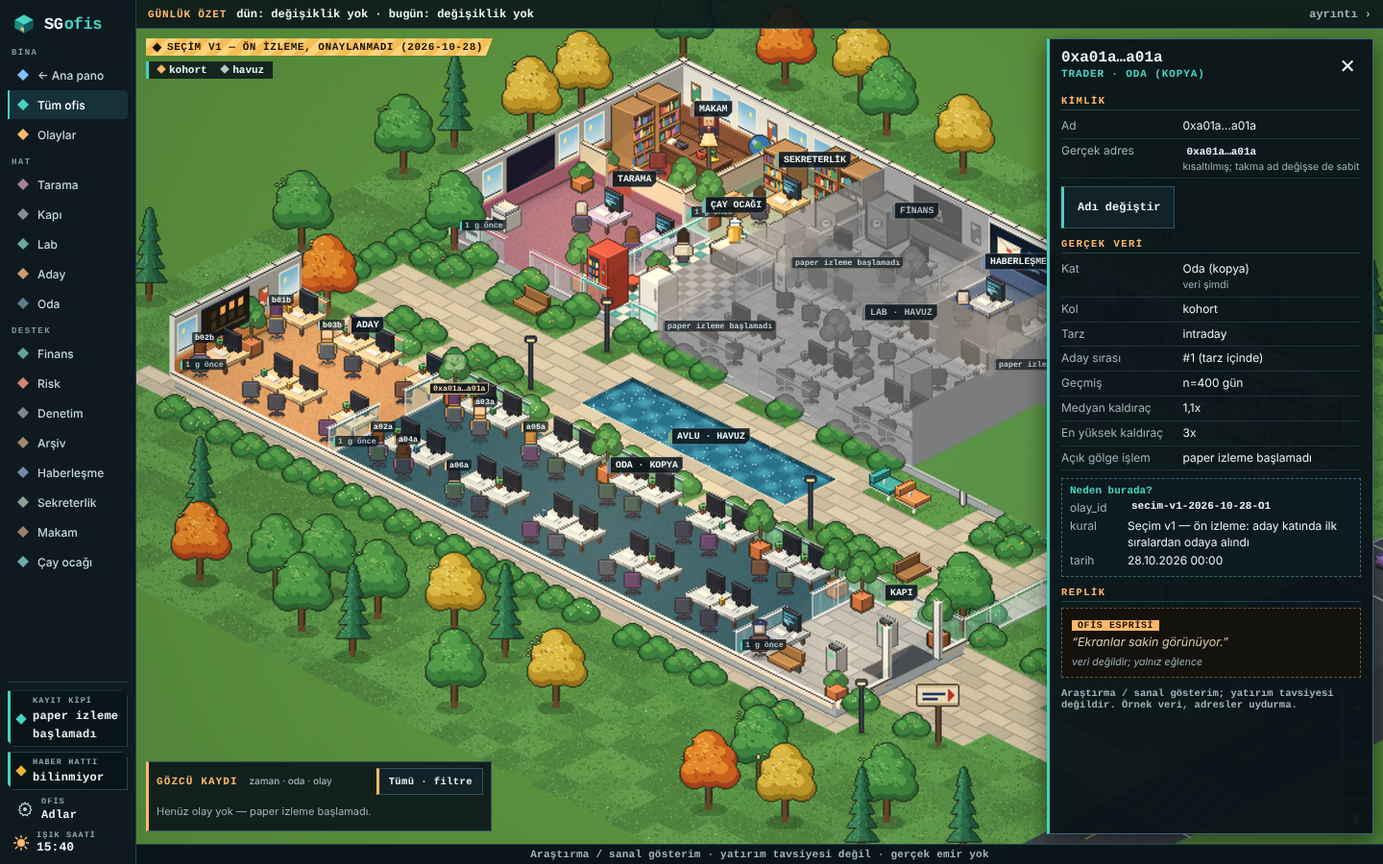
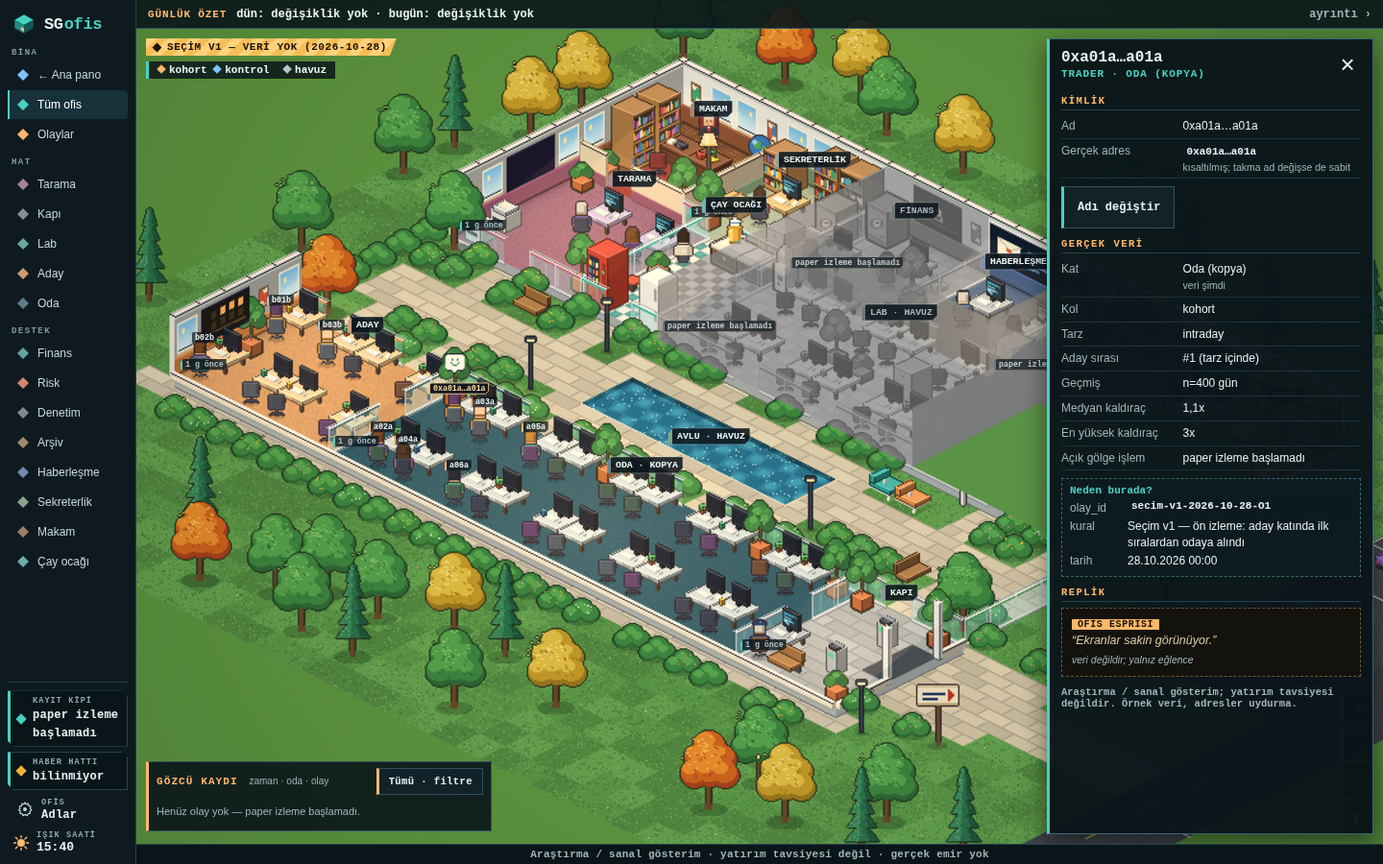
feat: canlı gölge ofis verisi (#33)
* feat: ofisi canlı gölge izlemeye bağla

* chore: ofis sürüm damgasını güncelle

diff --git a/ofis/gercek.js b/ofis/gercek.js
@@ -7,9 +7,10 @@
   else { root.OFIS = root.OFIS || {}; root.OFIS.Gercek = api; }
 })(typeof window !== 'undefined' ? window : globalThis, function () {
   'use strict';
-  const REPO = 'sselimgenc-oss/sg-arge', DAL = 'copytrade-kapi';
+  const REPO = 'sselimgenc-oss/sg-arge', DAL = 'copytrade-kapi', IZLEME_DALI = 'copytrade-izleme';
   const AGAC = 'https://api.github.com/repos/' + REPO + '/git/trees/' + DAL + '?recursive=1';   // kimliksiz API: tek çağrı
   const HAM = 'https://raw.githubusercontent.com/' + REPO + '/' + DAL + '/';
+  const IZLEME_HAM = 'https://raw.githubusercontent.com/' + REPO + '/' + IZLEME_DALI + '/izleme/durum.json';
   const ESIK_DK = 7 * 1440;                                   // seçim ve kapı haftalık/günlük üretilir: bir haftadan eskiyse VERİ ESKİ
   const GRI = 'paper izleme başlamadı';
   const TARIH = /^\d{4}-\d{2}-\d{2}/;
@@ -54,11 +55,27 @@
     const kapsam = durum && sayi(durum.kapsam) != null ? '%' + Math.round(durum.kapsam * 100) : null;
     const vk = (anahtar, ad, durumu, deger, zaman) => ({ anahtar: anahtar, ad: ad, durum: durumu, deger: deger, zaman: zaman, esik_dk: ESIK_DK });
     const kapiTamam = durum && durum.durum === 'tamam';
+    const live = opt.izleme || null, etiket = surum + '@' + (opt.kapiTarihi || tarih);
+    const eslesmis = live && Array.isArray(live.traderlar) ? live.traderlar.filter(t => t.secim === etiket) : [];
+    const onaylandi = eslesmis.length > 0;
+    const canli = Object.fromEntries(eslesmis.map(t => [String(t.adres).toLowerCase(), t]));
+    const liveRows = onaylandi ? girdi.filter(e => canli[e.adres]).map((e, i) => {
+      const t = canli[e.adres], ks = t.kollar || [t.kol];
+      const kat = ks.indexOf('oda') >= 0 || ks.indexOf('referans_oda') >= 0 ? 'oda' : (ks.indexOf('kontrol') >= 0 || ks.indexOf('referans_kontrol') >= 0 ? 'kontrol' : ks.indexOf('taban') >= 0 ? 'lab' : 'aday');
+      return Object.assign(olustur(e, kat, t.id.slice(0, 1), i), { id: t.id, adres: kisa(t.adres), takma_ad: t.takma_ad, kat: kat, kol: t.kol, saglik: t.saglik, sanal_kopya: t.sanal_kopya || null, veri_zamani: t.veri_zamani || live.uretildi });
+    }) : traderlar;
+    const copies = eslesmis.map(t => t.sanal_kopya).filter(Boolean);
+    const total = key => copies.reduce((x, c) => x + (sayi(c[key]) || 0), 0);
+    const kol = name => eslesmis.filter(t => (t.kollar || []).indexOf(name) >= 0).map(t => t.sanal_kopya).filter(Boolean);
+    const getiri = name => { const a = kol(name); return a.length ? a.reduce((x, c) => x + (sayi(c.getiri) || 0), 0) / a.length : null; };
+    const hafta = onaylandi ? Math.max(1, Math.floor((simdi.getTime() - Date.parse(tarih + 'T00:00:00Z')) / 604800000) + 1) : 0;
+    const gecmis = (live && live.olaylar || []).map(e => ({ id: e.id, zaman: e.zaman, tur: e.tur === 'acilis' ? 'islem_acildi' : e.tur === 'kapanis' ? 'islem_kapandi' : e.tur, oda: (liveRows.find(t => t.id === e.trader) || {}).kat || 'oda', trader: e.trader, metin: e.trader + ' · ' + e.coin + ' · ' + e.tur })).filter(e => e.tur === 'islem_acildi' || e.tur === 'islem_kapandi');
+    const maxLev = eslesmis.filter(t => (t.kollar || []).indexOf('oda') >= 0).reduce((x, t) => Math.max(x, ...(t.pozisyonlar || []).map(p => sayi(p.kaldirac) || 0)), 0);
     return {
       surum: 1, uretildi: simdi.toISOString(), kaynak: 'hyperliquid-kapi (veri dalı ' + DAL + ', seçim ' + surum + ' ' + tarih + ')',
-      secim: { surum: surum, tarih: tarih, kapi_tarihi: opt.kapiTarihi || null, onaylandi: false },
-      cipler: { golge: GRI, telegram: null },
-      kasa: { deger_usd: null, baslangic_usd: null, zaman: null, gun_n: null, egri: [] },
+      secim: { surum: surum, tarih: tarih, kapi_tarihi: opt.kapiTarihi || null, onaylandi: onaylandi },
+      cipler: { golge: onaylandi ? 'açık' : GRI, telegram: null },
+      kasa: { deger_usd: onaylandi ? total('bakiye_usd') : null, baslangic_usd: onaylandi ? total('baslangic_usd') : null, zaman: live && live.uretildi || null, gun_n: onaylandi ? hafta * 7 : null, egri: [] },
       ozet: { islem_basi_usd: null, bugun_kz_usd: null, bugun_acilan_n: null, bugun_kapanan_n: null, zaman: null },
       katlar: {
         havuz: { n: kolSayi('havuz'), masa: 0, zaman: z, esik_dk: ESIK_DK },
@@ -66,18 +83,18 @@
         oda: { n: kolSayi('oda'), kapasite: null, masa: odaListe.length, zaman: z, esik_dk: ESIK_DK },
         kontrol: { n: kolSayi('kontrol'), masa: 0, zaman: z, esik_dk: ESIK_DK }
       },
-      traderlar: traderlar, acik_islemler: [], kapananlar: [], olaylar: [], gecmis_olaylar: [], akis_suresi_sn: 0,
+      traderlar: liveRows, acik_islemler: [], kapananlar: [], olaylar: [], gecmis_olaylar: gecmis, akis_suresi_sn: 0,
       kohort_kontrol: {
-        hafta: 0, hafta_toplam: 12, performans_kilitli: true,
-        kollar: [{ ad: 'Oda (kohort)', n: kolSayi('oda') }, { ad: 'Kontrol (ofiste yer almaz)', n: kolSayi('kontrol') }, { ad: 'Taban (leaderboard)', n: kolSayi('taban') }, { ad: 'Elle liste', n: kolSayi('elle') }],
-        onkayit: 'Seçim ' + surum + ' ön izleme, onaylanmadı; paper izleme başlamadı', zaman: z, esik_dk: ESIK_DK
+        hafta: hafta, hafta_toplam: 12, performans_kilitli: false,
+        kollar: [{ ad: 'Oda (yönetilen)', n: onaylandi ? kol('oda').length : kolSayi('oda'), getiri: getiri('oda') }, { ad: 'Kontrol (sabit)', n: onaylandi ? kol('kontrol').length : kolSayi('kontrol'), getiri: getiri('kontrol') }, { ad: 'Taban', n: onaylandi ? kol('taban').length : kolSayi('taban'), getiri: getiri('taban') }, { ad: 'Elle liste', n: kolSayi('elle') }],
+        onkayit: 'Pilot; yönetilen oda sabit referans kontrol koluyla izlenir', zaman: live && live.uretildi || z, esik_dk: ESIK_DK
       },
       veri_kalitesi: [
         vk('tarama', 'Tarama (kapı koşusu)', durum ? (kapiTamam ? 'tamam' : 'uyari') : 'bilinmiyor', durum ? 'evren ' + trSayi(evren) + ' · işlenen ' + trSayi(islenen) + (kapsam ? ' · kapsam ' + kapsam : '') : null, durum ? kapiZ : null),
-        vk('lab', 'Gölge defteri', 'bilinmiyor', null, null), vk('arsiv', 'Arşiv yazımı', 'bilinmiyor', null, null),
+        vk('lab', 'Gölge defteri', onaylandi ? 'tamam' : 'bilinmiyor', onaylandi ? 'izlenen ' + eslesmis.length + ' trader' : null, live && live.uretildi || null), vk('arsiv', 'Arşiv yazımı', 'bilinmiyor', null, null),
         vk('denetim', 'Sağlama (gölge ↔ trader PnL)', 'bilinmiyor', null, null), vk('gecikme', 'Gecikme zinciri p95', 'bilinmiyor', null, null), vk('mum', '1 dk mum boşluğu', 'bilinmiyor', null, null)
       ],
-      risk: { zaman: null, tavanlar: [] }, telegram: { bugun_n: null, son: [], zaman: null },
+      risk: { zaman: live && live.uretildi || null, tavanlar: onaylandi ? [{ anahtar: 'kaldirac', ad: 'Oda en yüksek kaldıraç', kullanim: maxLev, tavan: 10, birim: 'x' }] : [] }, telegram: { bugun_n: null, son: [], zaman: null },
       tarama: { puanlar: [], zaman: durum ? kapiZ : null, esik_dk: ESIK_DK },
       kapi: { bugun_gecen_n: null, bugun_elenen_n: null, zaman: z, esik_dk: ESIK_DK },
       arsiv: { turler: [], zaman: null }, onkayit_kasasi: { surum: null, commit: null, dondurma_tarihi: null, zaman: null },
@@ -85,8 +102,8 @@
         tarama: durum ? [['Evren', evren], ['İşlenen', islenen], ['Kapsam', kapsam], ['Hesap sürümü', durum.hesap || null]] : [],
         kapi: [['Havuz', kolSayi('havuz')], ['Aday', kolSayi('aday')], ['Oda', kolSayi('oda')]]
       },
-      oda_durum: { lab: { gri: true, metin: GRI }, finans: { gri: true, metin: GRI }, risk: { gri: true, metin: GRI }, kontrol: { gizli: true } },
-      oda_kaynak: { lab: ['katlar:havuz'], aday: ['katlar:aday'], oda: ['katlar:oda'], tarama: ['veri_kalitesi:tarama', 'tarama'], kapi: ['kapi'], sekreterlik: ['kohort_kontrol'] },
+      oda_durum: onaylandi ? {} : { lab: { gri: true, metin: GRI }, finans: { gri: true, metin: GRI }, risk: { gri: true, metin: GRI }, kontrol: { gizli: true } },
+      oda_kaynak: { lab: ['veri_kalitesi:lab'], aday: ['katlar:aday'], oda: ['katlar:oda'], kontrol: ['kohort_kontrol'], finans: ['kasa', 'kohort_kontrol'], risk: ['risk'], tarama: ['veri_kalitesi:tarama', 'tarama'], kapi: ['kapi'], sekreterlik: ['kohort_kontrol'] },
       ekran_kaynak: { 'tarama.tv': 'tarama', 'aday.tv': 'katlar:aday' }
     };
   }
@@ -109,8 +126,10 @@
     const secim = await oku(HAM + 'secim/' + secimKlasor + '/secim.json');
     const kt = sonJ && sonJ.secim ? (secim.kapi_tarihi || sonJ.kapi || null) : kapiTarihi(secim, durumlar);
     const durum = kt ? await oku(HAM + 'copytrade/kapi/' + kt + '/durum.json') : null;
-    return cevir(secim, durum, { simdi: opt.simdi, kapiTarihi: kt });
+    let izleme = null;
+    try { izleme = await oku(IZLEME_HAM); } catch (e) { izleme = null; }
+    return cevir(secim, durum, { simdi: opt.simdi, kapiTarihi: kt, izleme: izleme });
   }
 
-  return { AGAC: AGAC, HAM: HAM, GRI: GRI, enSon: enSon, kapiTarihi: kapiTarihi, cevir: cevir, yukle: yukle };
+  return { AGAC: AGAC, HAM: HAM, IZLEME_HAM: IZLEME_HAM, GRI: GRI, enSon: enSon, kapiTarihi: kapiTarihi, cevir: cevir, yukle: yukle };
 });

diff --git a/ofis/test/gercek.test.js b/ofis/test/gercek.test.js
@@ -29,7 +29,7 @@ const metin = JSON.stringify(d);
 ok('körlük: hiçbir trader puan taşımaz', d.traderlar.every(t => !('puan' in t)));
 ok('körlük: kasa/özet/işlem/olay boş, K/Z yok', d.kasa.deger_usd === null && d.ozet.bugun_kz_usd === null && d.acik_islemler.length === 0 && d.kapananlar.length === 0 && d.olaylar.length === 0 && d.gecmis_olaylar.length === 0);
 ok('körlük: seçimdeki puan değeri (0.123456) hiçbir yerde yok', !/0\.123456|0\.9[0-9]?\b/.test(metin.replace(/"tohum":\d+/, '')));
-ok('körlük: performans kilitli', d.kohort_kontrol.performans_kilitli === true && d.tarama.puanlar.length === 0);
+ok('pilot görünümü: performans kilitli değil, tarama puanı taşınmaz', d.kohort_kontrol.performans_kilitli === false && d.tarama.puanlar.length === 0);
 /* sayılar */
 ok('katlar: havuz 30 · aday 9 · oda 6 · kontrol sayısı 5', d.katlar.havuz.n === 30 && d.katlar.aday.n === 9 && d.katlar.oda.n === 6 && d.katlar.kontrol.n === 5);
 ok('masa: lab 0, aday 3, oda 6, kontrol 0', d.katlar.havuz.masa === 0 && d.katlar.aday.masa === 3 && d.katlar.oda.masa === 6 && d.katlar.kontrol.masa === 0);
@@ -42,6 +42,10 @@ ok('verisi olmayan kalite satırları "bilinmiyor", sıfır değil', d.veri_kali
 ok('seçim sürümü v1 (secim.json sürüm vermiyorsa), tarih', d.secim.surum === 'v1' && d.secim.tarih === '2026-10-28' && d.secim.onaylandi === false);
 const d13 = G.cevir(F.secim('2026-10-28', 'v1.3'), null, { simdi: SIMDI });
 ok('v1.3: sürüm etiketi; kapı durumu yoksa tarama satırı bilinmiyor', d13.secim.surum === 'v1.3' && d13.veri_kalitesi[0].durum === 'bilinmiyor' && d13.oda_sayilar.tarama.length === 0);
+const sCanli = F.secim('2026-10-28', 'v1.3'), aCanli = Object.keys(sCanli.adresler)[0];
+const izleme = { uretildi: '2026-10-29T12:00:00Z', traderlar: [{ id: 'O01', adres: aCanli, takma_ad: 'a001', secim: 'v1.3@2026-10-28', kol: 'oda', kollar: ['oda'], saglik: { isik: 'yesil', nedenler: [] }, pozisyonlar: [], sanal_kopya: { baslangic_usd: 1000, bakiye_usd: 1012, getiri: .012 }}], olaylar: [{ id: 'O01-1-acilis', zaman: '2026-10-29T11:00:00Z', trader: 'O01', tur: 'acilis', coin: 'BTC', yon: 'long' }] };
+const canli = G.cevir(sCanli, F.durum, { simdi: SIMDI, kapiTarihi: '2026-10-28', izleme: izleme });
+ok('altın örnek: eşleşen seçim etiketi onay, kasa, olay ve aktif oda üretir', canli.secim.onaylandi && canli.kasa.deger_usd === 1012 && canli.traderlar[0].id === 'O01' && canli.gecmis_olaylar[0].tur === 'islem_acildi' && !canli.oda_durum.lab, JSON.stringify(canli.secim));
 
 /* canlı yol sözleşmesi: tek ağaç çağrısı + iki ham dosya, doğru adreslerle */
 (async () => {
@@ -59,7 +63,7 @@ ok('v1.3: sürüm etiketi; kapı durumu yoksa tarama satırı bilinmiyor', d13.s
   ok('sözleşme: ağaç adresi git/trees/copytrade-kapi?recursive=1 (kimliksiz tek çağrı)', istek[1] === 'https://api.github.com/repos/sselimgenc-oss/sg-arge/git/trees/copytrade-kapi?recursive=1', istek[1]);
   ok('sözleşme: ham adresler raw.githubusercontent.com/…/copytrade-kapi/secim/<tarih>/secim.json ve copytrade/kapi/<tarih>/durum.json',
     istek[2] === 'https://raw.githubusercontent.com/sselimgenc-oss/sg-arge/copytrade-kapi/secim/2026-10-28/secim.json' && istek[3] === 'https://raw.githubusercontent.com/sselimgenc-oss/sg-arge/copytrade-kapi/copytrade/kapi/2026-10-28/durum.json', istek.join(' | '));
-  ok('sözleşme: son.json yoksa 4 istek (işaretçi 404 + 1 API + 2 ham dosya)', istek.length === 4 && istek[0] === G.HAM + 'son.json' && g.traderlar.length === 9);
+ok('sözleşme: canlı izleme de okunur; yoksa sahte veriye düşmez', istek.length === 5 && istek[4] === G.IZLEME_HAM && g.traderlar.length === 9);
   /* son.json işaretçisi varsa API hiç çağrılmaz */
   const istek2 = [];
   const g2 = await G.yukle(async (url) => {
@@ -70,7 +74,7 @@ ok('v1.3: sürüm etiketi; kapı durumu yoksa tarama satırı bilinmiyor', d13.s
     if (url === G.HAM + 'copytrade/kapi/2026-10-28/durum.json') return yanit(F.durum);
     return { ok: false, status: 404, json: async () => ({}) };
   }, { simdi: SIMDI });
-  ok('son.json varsa: 3 ham dosya, API çağrısı yok', istek2.length === 3 && !istek2.some(u => /api\.github\.com/.test(u)) && g2.traderlar.length === 9, istek2.join(' | '));
+ok('son.json varsa: 4 ham dosya, API çağrısı yok', istek2.length === 4 && !istek2.some(u => /api\.github\.com/.test(u)) && g2.traderlar.length === 9, istek2.join(' | '));
   let hata = null;
   try { await G.yukle(async () => ({ ok: false, status: 403, json: async () => ({}) }), { simdi: SIMDI }); } catch (e) { hata = e.message; }
   ok('API sınırı (403) → açık hata, sessiz örnek yok', /HTTP 403/.test(hata || ''), hata);

diff --git a/ofis/test/gercek_ui.test.js b/ofis/test/gercek_ui.test.js
@@ -40,9 +40,9 @@ const srv = http.createServer((q, r) => {
 
   /* ---------- A. varsayılan: gerçek veri ---------- */
   let { ctx, pg } = await open();
-  ok('varsayılan açılış ağ yolundan veri alır (son.json 404 → 1 API + 2 ham dosya, örnek dosya yok)', istek.length === 4 && istek[0] === G.HAM + 'son.json' && istek[1] === G.AGAC, istek.join(' | '));
+  ok('varsayılan açılış ağ yolundan veri alır (son.json 404 → API, kapı ve canlı izleme; örnek yok)', istek.length === 5 && istek[0] === G.HAM + 'son.json' && istek[1] === G.AGAC && istek[4] === G.IZLEME_HAM, istek.join(' | '));
   const sera = await pg.evaluate(() => ({ on: !document.getElementById('onizlemeFlt').hidden, t: document.getElementById('onizlemeMetin').textContent, o: !document.getElementById('ornekFlt').hidden, r: document.getElementById('onizlemeFlt').getBoundingClientRect() }));
-  ok('üst şerit: "Seçim v1 — ön izleme, onaylanmadı (2026-10-28)"', sera.on && sera.t === 'Seçim v1 — ön izleme, onaylanmadı (2026-10-28)', sera.t);
+  ok('canlı etiket eşleşmezse üst şerit veri yok der', sera.on && sera.t === 'Seçim v1 — veri yok (2026-10-28)', sera.t);
   ok('şerit ekranın içinde ve görünür', sera.r.width > 100 && sera.r.top >= 0 && sera.r.top < 120);
   ok('örnek veri şeridi yok', !sera.o);
   const durum = await pg.evaluate(() => { const s = OFIS.Office.state(), n = k => s.actors.filter(a => a.kind === 'trader' && a.kat === k).length; return { oda: n('oda'), aday: n('aday'), lab: n('lab'), kontrol: n('kontrol'), gri: ['lab', 'finans', 'risk', 'oda', 'aday'].map(r => OFIS.Office.gri(r)), gizli: !!OFIS.World.roomById.kontrol.gizli, out: !!OFIS.World.roomById.kontrol.out, kaynak: OFIS.data.kaynak }; });
@@ -53,7 +53,7 @@ const srv = http.createServer((q, r) => {
   ok('sol panel: kasa/risk "paper izleme başlamadı"', (t.match(/paper izleme başlamadı/g) || []).length >= 7, String((t.match(/paper izleme başlamadı/g) || []).length));
   ok('"örnek" rozeti ve "örnek veri" yazısı yok', !/örnek/i.test(t.replace(/Örnek veri yalnız[^\n]*/i, '')), (t.match(/.{20}örnek.{20}/i) || [''])[0]);
   ok('körlük: para birimi ($), K/Z, "puan" yok', !/\$\d/.test(t) && !/K\/Z/.test(t) && !/puan/i.test(t), (t.match(/.{15}(\$\d|K\/Z|puan).{15}/i) || [''])[0]);
-  ok('kontrol kolu yalnız bir yerde sayı olarak geçer: "Kontrol (ofiste yer almaz) N=5"', /Kontrol \(ofiste yer almaz\)\s*N=5/i.test(t) && (t.match(/KONTROL GRUBU/gi) || []).length === 0 && !/Kontrol masalar/i.test(await pg.evaluate(() => document.getElementById('ofisAciklama').textContent)), (t.match(/.{10}ontrol.{20}/g) || []).join(' | '));
+  ok('etiket eşleşmezse kontrol veri yoktur; örnek kontrol figürü yok', /Kontrol \(sabit\)\s*N=5/i.test(t) && (t.match(/KONTROL GRUBU/gi) || []).length === 0, (t.match(/.{10}ontrol.{20}/g) || []).join(' | '));
   ok('sol panelde Oda/Aday/Havuz sayıları gerçek: 6, 9, 30', /Oda\s*6/i.test(t) && /Aday\s*9/i.test(t) && /Havuz\s*30/i.test(t));
   /* oda bilgileri */
   const bilgi = await pg.evaluate(() => ['tarama', 'kapi', 'lab', 'finans', 'risk', 'oda'].map(r => OFIS.Office.roomInfo(r).lines.join(' ')));
@@ -75,7 +75,7 @@ const srv = http.createServer((q, r) => {
   /* ---------- A2. son.json varsa API çağrılmaz ---------- */
   istek.length = 0;
   ({ ctx, pg } = await open('?saat=15:40', { son: true }));
-  ok('son.json işaretçisi: GitHub API hiç çağrılmaz (3 ham istek)', istek.length === 3 && !istek.some(u => /api\.github\.com/.test(u)), istek.join(' | '));
+  ok('son.json işaretçisi: GitHub API hiç çağrılmaz (4 ham istek)', istek.length === 4 && !istek.some(u => /api\.github\.com/.test(u)), istek.join(' | '));
   await ctx.close();
 
   /* ---------- A3. telefon: rozet, yakın açılış, gece konturu ---------- */
@@ -85,6 +85,7 @@ const srv = http.createServer((q, r) => {
   ok('telefon: açılışta kamera sığdırmadan %12 yakın', Math.abs(yak.oran - 1.12) < 0.01, JSON.stringify(yak));
   const rozet = await pg.evaluate(() => { const s = OFIS.Office.state(); return ['oda', 'aday'].map(id => s.actors.some(a => a.kind === 'trader' && a.kat === id) + ':' + s.katlar[id].n); });
   ok('telefon: dolu masalı odalarda rozet verisi (Oda 6, Aday 9)', rozet.join() === 'true:6,true:9', rozet.join());
+  await pg.screenshot({ path: path.join(__dirname, '..', '..', 'docs', 'ofis_gercek_veri_telefon.png') });
   ok('gündüz: figür konturu çizilmez', (await pg.evaluate(() => OFIS.Office.konturN || 0)) === 0);
   await ctx.close();
   ({ ctx, pg } = await open('?saat=23:30', { vp: { width: 390, height: 844 } }));

diff --git a/ofis/panel.js b/ofis/panel.js
@@ -34,10 +34,9 @@
     const sr = $('#gunSeritMetin'); if (sr) sr.textContent = r.dun + ' · ' + r.bugun;
   }
   function kasa() {
-    // ön kayıt: toplanmış performans (kasa değeri, eğri, % değişim) ofiste gösterilmez
     if (Off.gri('finans')) { $('#kasaIcerik').innerHTML = '<p class="bos">' + GRIN + '</p>'; return; }
     const k = st.kasa, el = $('#kasaIcerik'), tem = st.acik.reduce((sum, x) => sum + (x.teminat_usd || 0), 0), kk = st.kk;
-    el.innerHTML = '<div class="kilit" role="note"><svg viewBox="0 0 16 16" width="18" height="18" aria-hidden="true"><path d="M4 7V5a4 4 0 0 1 8 0v2h1v8H3V7zm2 0h4V5a2 2 0 0 0-4 0z" fill="currentColor"/></svg><div><b>Kasa değeri kilitli</b><div class="ks">Toplanmış performans ön kayıt gereği gösterilmez (hafta ' + kk.hafta + '/' + kk.hafta_toplam + ').</div></div></div>' +
+    el.innerHTML = '<div class="kasa-satir ks2"><div><span class="kl">kasa</span><div class="kv">' + usd(k.deger_usd) + '</div></div><div><span class="kl">getiri</span><div class="kv ' + cls(k.deger_usd == null || !k.baslangic_usd ? 0 : k.deger_usd / k.baslangic_usd - 1) + '">' + pct(k.deger_usd == null || !k.baslangic_usd ? null : (k.deger_usd / k.baslangic_usd - 1) * 100, true) + '</div></div></div>' +
       '<div class="kasa-satir ks2"><div><span class="kl">başlangıç</span><div class="kv">' + usd(k.baslangic_usd) + '</div></div><div><span class="kl">açık işlem teminatı</span><div class="kv">' + usd(tem) + '</div></div></div>' +
       '<p class="meta">n=' + (k.gun_n == null ? 'bilinmiyor' : k.gun_n + ' gün') + ' · veri ' + hm(k.zaman) + ' · ' + ORN + '</p>';
   }
@@ -90,8 +89,8 @@
   function kohort() {
     const k = st.kk, pr = Math.max(0, Math.min(1, k.hafta / k.hafta_toplam));
     $('#kohIcerik').innerHTML = '<div class="hafta"><span>hafta <b>' + k.hafta + '/' + k.hafta_toplam + '</b></span><div class="hb"><i style="width:' + (pr * 100).toFixed(0) + '%;background:#46d3c2"></i></div></div>' +
-      '<ul class="kollar">' + k.kollar.map(c => '<li><span>' + esc(c.ad) + '</span><b>N=' + c.n + '</b></li>').join('') + '</ul>' +
-      (k.performans_kilitli ? '<div class="kilit" role="note"><svg viewBox="0 0 16 16" width="18" height="18" aria-hidden="true"><path d="M4 7V5a4 4 0 0 1 8 0v2h1v8H3V7zm2 0h4V5a2 2 0 0 0-4 0z" fill="currentColor"/></svg><div><b>Performans kilitli</b><div class="ks">' + esc(k.onkayit) + '. Kâr görüldükçe trader, eşik ya da süre değiştirilmez.</div></div></div>' : '<p class="bos">Performans: bilinmiyor.</p>');
+      '<ul class="kollar">' + k.kollar.map(c => '<li><span>' + esc(c.ad) + '</span><b>N=' + c.n + (c.getiri == null ? '' : ' · ' + pct(c.getiri * 100, true)) + '</b></li>').join('') + '</ul>' +
+      '<p class="meta">' + esc(k.onkayit || 'Kohort verisi yok') + '</p>';
     $('#kohMeta').innerHTML = 'veri ' + hm(k.zaman) + ' · ' + ORN;
   }
   function veri() {
@@ -128,9 +127,9 @@
     const ornek = P.ornekMi(), d = O.data, sc = d.secim;
     $('#ornekFlt').hidden = !ornek;
     $('#onizlemeFlt').hidden = ornek || !sc;
-    if (sc) $('#onizlemeMetin').textContent = 'Seçim ' + sc.surum + ' — ön izleme, onaylanmadı (' + sc.tarih + ')';
+    if (sc) $('#onizlemeMetin').textContent = 'Seçim ' + sc.surum + (sc.onaylandi ? ' — pilot, hafta ' + st.kk.hafta + '/' + st.kk.hafta_toplam : ' — veri yok') + ' (' + sc.tarih + ')';
     Object.keys(d.oda_durum || {}).forEach(id => { if (d.oda_durum[id].gizli) document.querySelectorAll('.ray [data-oda=' + id + ']').forEach(b => { b.hidden = true; }); });   // gizli oda sol menüde de yok
-    const lk = $('#lejKontrol'); if (lk) lk.hidden = !ornek;                 // gerçek veride kontrol kolu ofiste yer almaz
+    const lk = $('#lejKontrol'); if (lk) lk.hidden = false;
     const an = $('#altNot'); if (an && ornek) an.innerHTML = 'Bu sayfa <b>örnek veriyle</b> çalışır (<code>?durum=ornek</code>); adresler uydurmadır.';
     const c = d.cipler || {}, low = v => String(v).toLocaleLowerCase('tr');
     $('#kayitDeger').textContent = c.golge ? low(c.golge) : 'bilinmiyor';

diff --git a/ofis/index.html b/ofis/index.html
@@ -5,7 +5,7 @@
   <meta name="viewport" content="width=device-width, initial-scale=1">
   <title>SG Ofis · animasyonlu pano</title>
   <meta name="description" content="sg-arge copy trade hattının animasyonlu izometrik ofis görünümü. Örnek veriyle çalışır; gerçek emir yok.">
-  <link rel="stylesheet" href="ofis.css?v=0fd78c2">
+  <link rel="stylesheet" href="ofis.css?v=5707c8e">
 </head>
 <body class="tam">
 <a class="atla" href="#ofisTuval">Ofise geç</a>
@@ -161,18 +161,18 @@
     <p class="yasal">Araştırma / sanal gösterim; yatırım tavsiyesi değildir.</p>
   </div>
 </dialog>
-<script src="px.js?v=0fd78c2"></script>
-<script src="sprites.js?v=0fd78c2"></script>
-<script src="kisiler.js?v=0fd78c2"></script>
-<script src="world.js?v=0fd78c2"></script>
-<script src="gercek.js?v=0fd78c2"></script>
-<script src="office.js?v=0fd78c2"></script>
-<script src="ad.js?v=0fd78c2"></script>
-<script src="iletisim.js?v=0fd78c2"></script>
-<script src="bilgi.js?v=0fd78c2"></script>
-<script src="cekmece.js?v=0fd78c2"></script>
-<script src="ses.js?v=0fd78c2"></script>
-<script src="panel.js?v=0fd78c2"></script>
-<script src="main.js?v=0fd78c2"></script>
+<script src="px.js?v=5707c8e"></script>
+<script src="sprites.js?v=5707c8e"></script>
+<script src="kisiler.js?v=5707c8e"></script>
+<script src="world.js?v=5707c8e"></script>
+<script src="gercek.js?v=5707c8e"></script>
+<script src="office.js?v=5707c8e"></script>
+<script src="ad.js?v=5707c8e"></script>
+<script src="iletisim.js?v=5707c8e"></script>
+<script src="bilgi.js?v=5707c8e"></script>
+<script src="cekmece.js?v=5707c8e"></script>
+<script src="ses.js?v=5707c8e"></script>
+<script src="panel.js?v=5707c8e"></script>
+<script src="main.js?v=5707c8e"></script>
 </body>
 </html>

diff --git a/ofis/office.js b/ofis/office.js
@@ -16,7 +16,7 @@
   Off.clock = () => new Date(Date.now() + Off.timeOffsetMs);
   /* Performans körlüğü (ön kayıt): toplanmış performans (kasa değeri/eğrisi, günlük toplam K/Z, kol getirisi) ofiste gösterilmez.
      Tek tek işlem K/Z'si Telegram'daki kadar görünür kalır. */
-  Off.KILIT = true;
+  Off.KILIT = false;
   const evHooks = [];
   /* ---------- örnek saat, veri yaşı ve bayatlık (eşikler veride: her kaynakta esik_dk) ---------- */
   const TOP = { kasa: 'kasa', ozet: 'ozet', risk: 'risk', telegram: 'tg', kohort_kontrol: 'kk', arsiv: 'arsiv', kapi: 'kapi', tarama: 'tarama', onkayit_kasasi: 'onkayit' };

diff --git a/README.md b/README.md
@@ -5,7 +5,7 @@
 - Yayın: GitHub Pages (`main` / kök). Tek sayfa (`index.html`), erişim yöntemi değişmedi (ek hesap/şifre yok).
 - Sekmeler (sürüm `pano-sade`): **Özet** (`#ozet`: hafta x/12, oda doluluğu, kol başına trader, veri tazeliği, son 5 olay; altında kapalı bölümler: tüm akış, açık işlemler, "Kararlarım değer kattı mı?") · **Trader'lar** (`#traderlar`: kol filtresi + kartlar; trader sayfası `#trader/<adres>`) · **Huni** (`#huni`: havuz → aday → oda, son tarama, aday listesi) · **Ayarlar** (`#ayarlar`: tutar hesaplayıcı, sözlük). Sayfa Özet ile açılır. Eski adresler yönlenir: `#ct/<id>`, `#kesif/<adres>` → trader sayfası; `#ctakis`, `#ctistat` → Özet; `#kesif` → Huni.
 - Telefon öncelikli, kısa Türkçe; her teknik terimin yanında "?" (dokununca açıklama; tam liste Ayarlar → Sözlük). "Araştırma / sanal, yatırım tavsiyesi değil" ibaresi sabit üst bantta her sekmede görünür.
-- **Performans körlüğü (ön kayıt):** canlı gölge süresince "sanal kopya (hepsi)", kol toplamları ve kohort ↔ kontrol kıyası gösterilmez; yerine "kilitli · hafta x/12" yazar. Tek tek işlem K/Z'si görünür. Kâr/zarar rengi, K/Z'ye göre sıralama, rozet ve seri yok.
+- **Canlı pilot görünümü (ön kayıt 1.5):** sanal kasa, kol toplamları ve yönetilen oda ↔ sabit kontrol kıyası görünür. Seçim etiketi ile canlı izleme eşleşmiyorsa sayfa sahte veri üretmez; ilgili alan "veri yok" kalır.
 - **Veride isteğe bağlı yeni alanlar** (yoksa "bilinmiyor" yazar, çökmez): trader başına `kol` (`oda|aday|kontrol|taban|elle`), `neden_secildi`, `kirmizi_bayraklar[]` (yoksa `saglik` ışığı/nedenleri); üst düzey `golge: {hafta, hafta_toplam (varsayılan 12), oda_kapasite, oda_n}`; keşifte `havuz`, `aday_sayisi` (yoksa `islenen` ve aday sayısı).
 - Testler: `node test/pano.test.js` (ana pano, Playwright; ağ yakalanır, yalnız örnek veri).
 - Tanım: `sg-arge/docs/PANO_COPYTRADE.md`; veri biçimi: `sg-arge/docs/VERI_SOZLESMESI.md` (v1.1, `surum` 1; başka sürüm reddedilir).
@@ -14,8 +14,8 @@
 - Paper/strateji araştırması kapandı; ona ait pano, sekmeler ve `data.json` kaldırıldı.
 
 ## Ofis (animasyonlu görünüm)
-`ofis/` altında ayrı bir sayfa: izometrik piksel sanatı ofis + sol pano. **Varsayılan kaynak gerçek veridir** (`sg-arge` veri dalı `copytrade-kapi`: `secim/<tarih>/secim.json` + `copytrade/kapi/<tarih>/durum.json`); üstte "Seçim v1 — ön izleme, onaylanmadı (tarih)" şeridi çıkar. Örnek veri (`ofis/ornek_durum.json`) yalnız `?durum=ornek` ile açılır ve o durumda "Örnek veri — gerçek veriye bağlı değil" şeridi görünür. Veri okunamazsa sahte veriye düşülmez, hata yazılır.
-- **Uyarlayıcı:** `ofis/gercek.js` seçim + kapı durumunu `ofis/SEMA.md` şemasına çevirir (§9). Oda ve Aday odaları gerçek trader'larla (takma ad, tarz, kaldıraç, sıra) dolar; Tarama/Kapı odaları evren, işlenen, havuz, aday, oda sayılarını gösterir; **Lab, Finans ve Risk "paper izleme başlamadı" diye gri kalır**, sahte figür/olay üretilmez; kontrol kolu ofiste yer almaz (yalnız sayısı "Kohort ↔ Kontrol" kartında). Körlük: kâr/zarar, kol karşılaştırması ve puan hiçbir yerde gösterilmez (yalnız kat ve sıra).
+`ofis/` altında ayrı bir sayfa: izometrik piksel sanatı ofis + sol pano. **Varsayılan kaynak gerçek veridir** (`sg-arge` veri dalları `copytrade-kapi` ve `copytrade-izleme`); seçim etiketi eşleşince üst şerit "Seçim v1.3 — pilot, hafta x/12" olur. Örnek veri (`ofis/ornek_durum.json`) yalnız `?durum=ornek` ile açılır. Veri okunamazsa sahte veriye düşülmez, hata yazılır.
+- **Uyarlayıcı:** `ofis/gercek.js` seçim + kapı durumuna ek olarak `copytrade-izleme/izleme/durum.json` dosyasını `ofis/SEMA.md` şemasına çevirir (§9). Seçim etiketi eşleşince Lab, Finans, Risk, Oda ve Kontrol canlı olur; olaylar ve sanal kasa salt okunur veriden gelir. Veri yoksa sahte figür ya da olay üretilmez.
 - **En son tarih:** veri dalı ağacı tek bir kimliksiz GitHub API çağrısıyla (`git/trees/copytrade-kapi?recursive=1`) okunur (60/saat sınırı için tek çağrı). Önce veri dalı kökündeki `son.json` (`{"secim": "<klasör>", "kapi": "<tarih>"}`; yayıncı: sg-arge `.github/scripts/son_yaz.py`) okunur; varsa API hiç çağrılmaz, yoksa tek ağaç çağrısına düşülür. Testler: `node ofis/test/gercek.test.js`, `node ofis/test/gercek_ui.test.js`.
 - **Sürüm 2 (ilk 5 iş):** odaya tıklayınca iç görünüm (`#oda/lab`, Kapı, Arşiv…), ortak bilgi kutusu (masaüstü panel / telefon çekmece), `replikler.json`, iletişim işaretleri (zarf/not/ok), oda ve çalışan adlarını değiştirme (`kadro.json`). Testler: `node ofis/test/replik.test.js`, `node ofis/test/ui.test.js` (Playwright).
 - **Sürüm 2b:** olay çekmecesi (filtre, kameraya git), veriden türeyen bayatlık (`esik_dk`, sis, "VERİ ESKİ"), oda iç ayrıntıları, günlük özet, isteğe bağlı ses (varsayılan kapalı).
